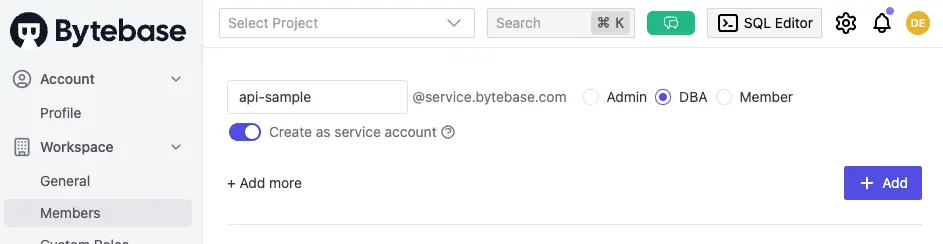
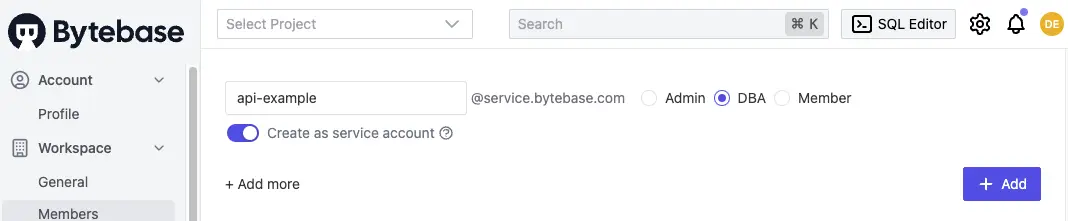
docs: update readme

diff --git a/README.md b/README.md
@@ -1,4 +1,4 @@
-# Bytebase API Sample
+# Bytebase API Example
 
 This is a sample app demonstrating how to use [Bytebase](https://github.com/bytebase/bytebase) API to create and rollout a database change.
 
@@ -10,7 +10,7 @@ The app is built with Next.js and TailwindCSS.
 
 ## Prerequisites
 
-- Node >= v18
+- Node >= 18
 
 ## Getting Started
 
@@ -44,17 +44,16 @@ The app is built with Next.js and TailwindCSS.
 1. Run the following commands:
 
    ```bash
-   pnpm i
-   pnpm run dev
+   pnpm i && pnpm dev
    ```
 
-Open the host with your browser to see the result.
+Open the host with your browser to see the running app.
 
-## Implementation
+## API Usage
 
 ### Fetch data
 
-_You may find the following API used in `src/app/page.tsx`:_
+In `src/app/page.tsx`:
 
 - List all projects
   `/v1/projects`
@@ -64,7 +63,7 @@ _You may find the following API used in `src/app/page.tsx`:_
 
 ### Create an issue
 
-_You may find the following API used in `src/app/components/add-issue-form.tsx` and `src/app/api/xxxx/route.ts`:_
+In `src/app/components/add-issue-form.tsx` and `src/app/api/xxxx/route.ts`:
 
 In order to create an issue, you need to create resources **in the following order**:
 
@@ -75,6 +74,6 @@ In order to create an issue, you need to create resources **in the following ord
 
 ### Fetch issue status
 
-_You may need to check if an issue has closed in your own platform._
+In `src/app/components/add-issue-form.tsx`:
 
 - Get issue by id `/v1/projects/{project}/issues/{issue}`
